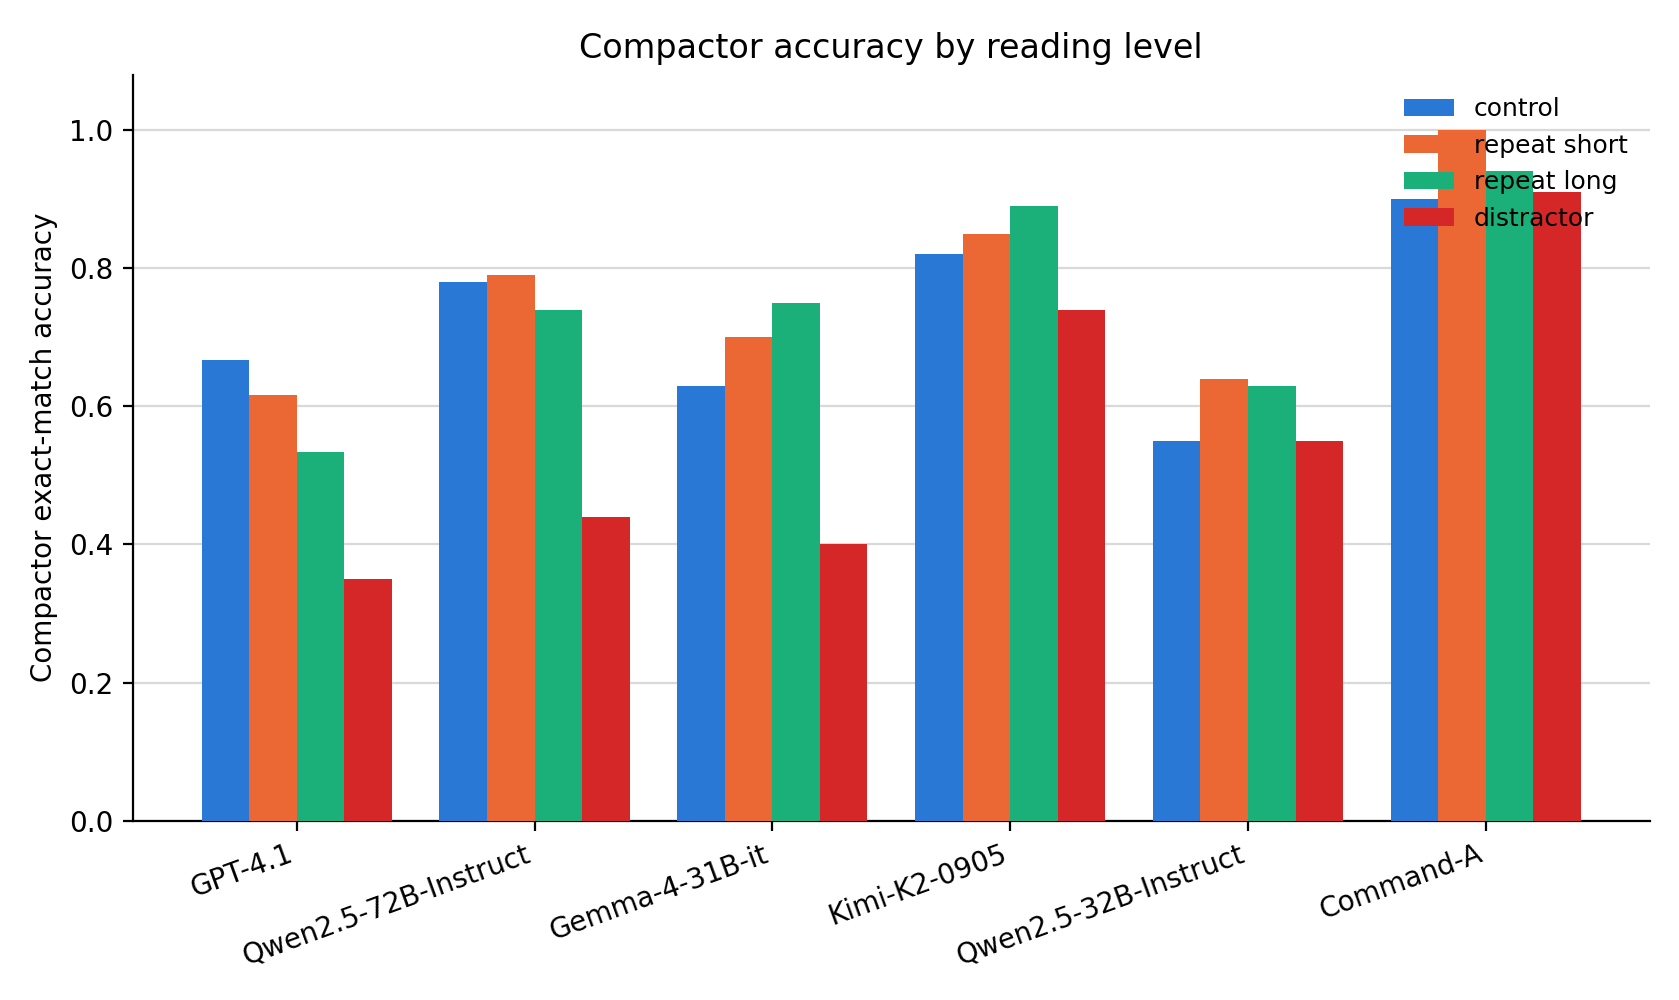
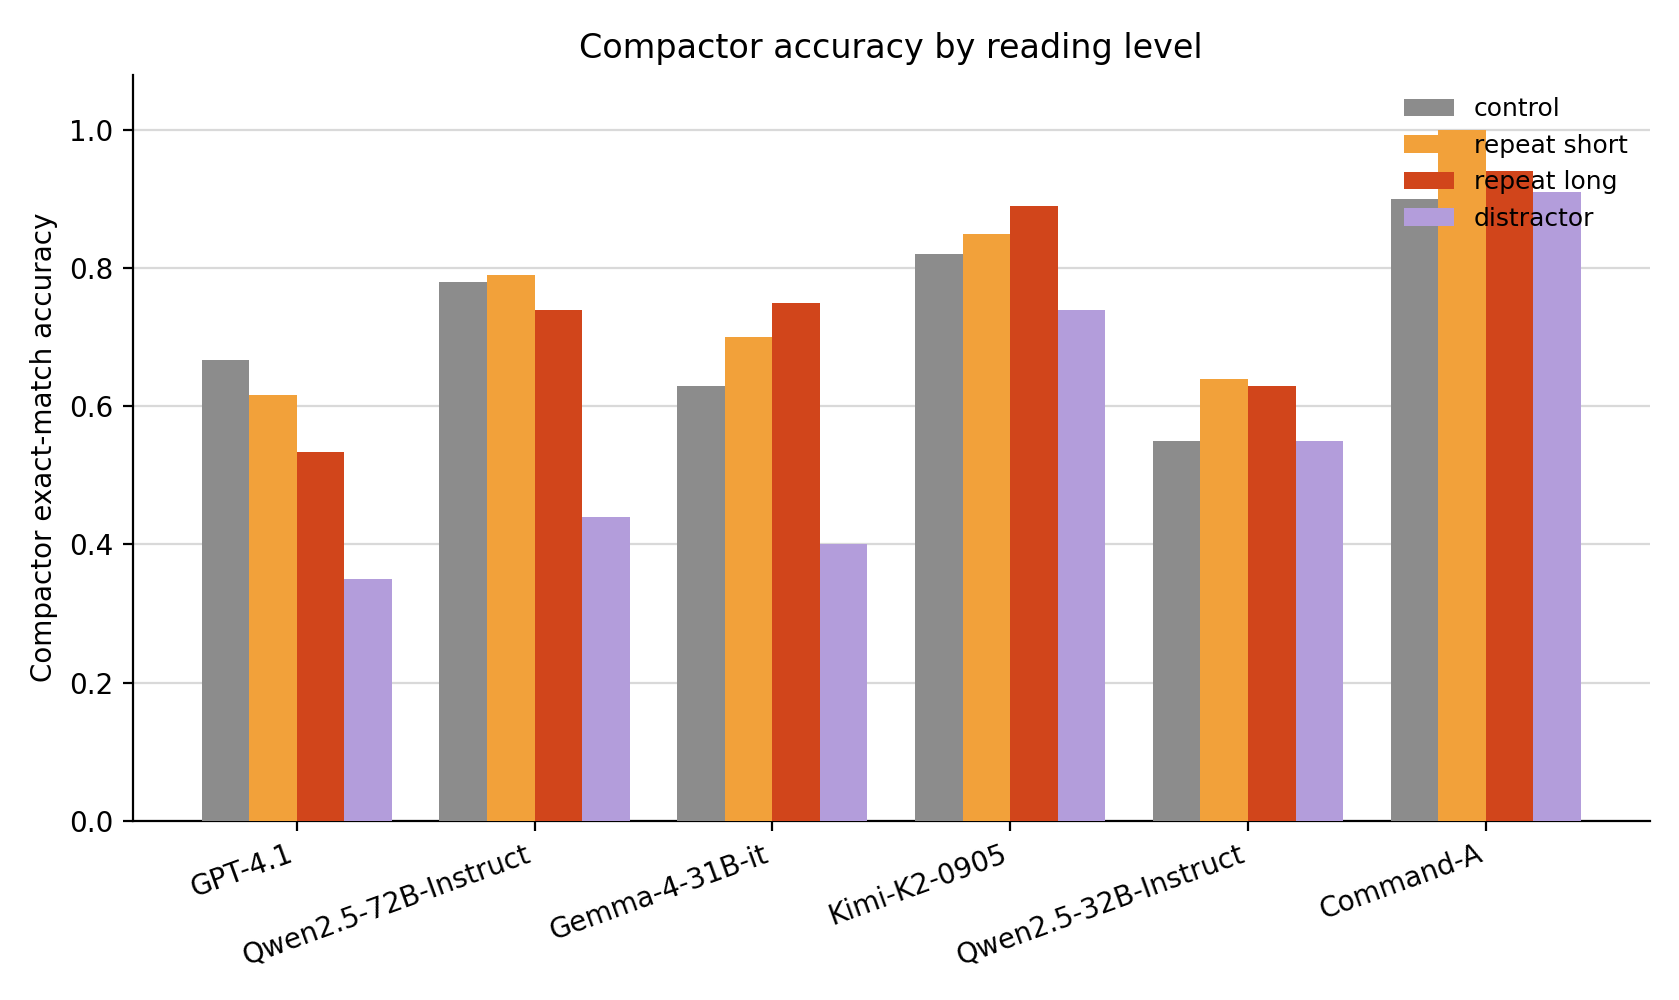
Use the repo's standard per-level color scheme in the compactor-by-level bar
Matches plot_accuracy_by_topic_faceted_with_wm_and_human.py and
plot_wm_slot_utilization.py's LEVEL_COLORS instead of an ad-hoc palette.

Claude-Session: https://claude.ai/code/session_01Cavn5C6Z7snCbR2oUzfLFM

diff --git a/application/plot_open_source_compactor_vs_ceiling.py b/application/plot_open_source_compactor_vs_ceiling.py
@@ -30,6 +30,15 @@ GRID = "#d9d9d9"
 INK = "#2b2b2b"
 MUTED = "#6b6b6b"
 
+# Same per-level palette used elsewhere for human/model comparisons
+# (plot_accuracy_by_topic_faceted_with_wm_and_human.py, plot_wm_slot_utilization.py).
+LEVEL_COLORS: dict[str, str] = {
+    "control": "#8c8c8c",
+    "repeat_short": "#f2a13a",
+    "repeat_long": "#d1451b",
+    "distractor": "#b39ddb",
+}
+
 # Friendly display names for known slugs; anything not listed here falls back
 # to an auto-formatted version of its runs/prompting/<slug> directory name.
 DISPLAY_NAMES: dict[str, str] = {
@@ -199,11 +208,10 @@ def plot_compactor_by_level(out_path: Path) -> None:
     n_models = len(models)
     n_levels = len(LEVEL_ORDER)
     width = 0.8 / n_levels
-    colors = [BLUE, ORANGE, "#1baf7a", "#d62728"]
     for j, level in enumerate(LEVEL_ORDER):
         vals = [by_level[model].get(level, float("nan")) for model in models]
         offsets = [i + (j - (n_levels - 1) / 2) * width for i in range(n_models)]
-        ax.bar(offsets, vals, width, color=colors[j % len(colors)], label=level.replace("_", " "), zorder=3)
+        ax.bar(offsets, vals, width, color=LEVEL_COLORS[level], label=level.replace("_", " "), zorder=3)
     ax.set_xticks(range(n_models))
     ax.set_xticklabels(models, rotation=20, ha="right")
     ax.set_ylim(0, 1.08)
